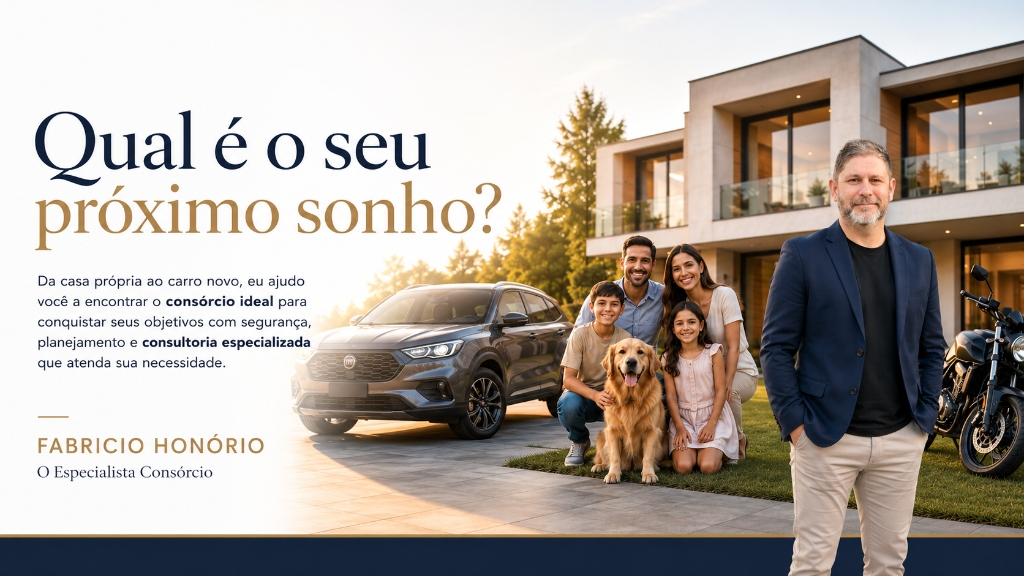
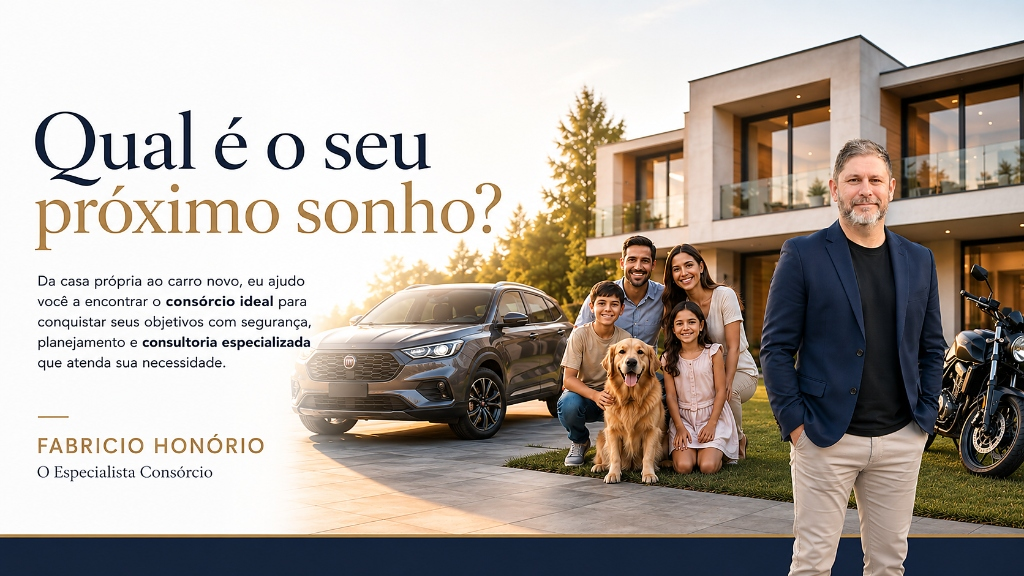
feat(simulator): atualiza imagem em alta resolucao e aplica fundo azul com particulas reluzentes e container ampliado

diff --git a/src/pages/Index.tsx b/src/pages/Index.tsx
@@ -13,7 +13,7 @@ import { StickySimulatorCTA } from "@/components/StickySimulatorCTA";
 import { supabase } from "@/integrations/supabase/client";
 import { useToast } from "@/hooks/use-toast";
 import { Sparkles, Clock, ShieldCheck } from "lucide-react";
-import AIChatbot from "@/components/AIChatbot";
+import { BlueParticlesBackground } from "@/components/BlueParticlesBackground";
 
 const Index = () => {
   const { toast } = useToast();
@@ -97,41 +97,44 @@ const Index = () => {
       {/* 2ª SEÇÃO - Tipos de Consórcio (Clean Light) */}
       <SegmentCards />
 
-      {/* 3ª SEÇÃO - SIMULADOR (Clean Light Container) */}
+      {/* 3ª SEÇÃO - SIMULADOR (Fundo Azul Tech com Partículas e Container Estendido) */}
       <div id="simulator" className="scroll-mt-20">
-        <section className="py-24 bg-gradient-to-b from-white via-slate-50 to-white relative overflow-hidden border-t border-slate-200/60">
+        <section className="py-24 bg-[#070D19] text-white relative overflow-hidden border-t border-b border-slate-800">
           
-          <div className="container max-w-5xl mx-auto px-4 sm:px-6 relative z-10">
+          {/* Partículas Animadas Reluzentes */}
+          <BlueParticlesBackground />
+
+          <div className="container max-w-[1380px] mx-auto px-4 sm:px-6 lg:px-8 relative z-10">
             
             {/* Header Acima do Simulador */}
             <div className="text-center max-w-3xl mx-auto mb-14 space-y-4">
-              <div className="inline-flex items-center gap-2 px-3.5 py-1.5 rounded-full bg-amber-50 border border-amber-200/80 text-[#B8860B] text-xs font-bold uppercase tracking-widest">
-                <Sparkles className="w-3.5 h-3.5 text-amber-600" />
+              <div className="inline-flex items-center gap-2 px-4 py-1.5 rounded-full bg-amber-400/10 border border-amber-400/30 text-amber-300 text-xs font-bold uppercase tracking-widest backdrop-blur-md">
+                <Sparkles className="w-3.5 h-3.5 text-amber-400" />
                 <span>Simulador Inteligente</span>
               </div>
 
-              <h2 className="text-3xl sm:text-4xl lg:text-5xl font-black tracking-tight text-[#0F172A] leading-tight">
-                Descubra a melhor estratégia para o <span className="text-transparent bg-clip-text bg-gradient-to-r from-[#B8860B] via-[#D4AF37] to-[#966F1E]">seu objetivo</span>
+              <h2 className="text-3xl sm:text-4xl lg:text-5xl font-black tracking-tight text-white leading-tight">
+                Descubra a melhor estratégia para o <span className="text-transparent bg-clip-text bg-gradient-to-r from-amber-200 via-amber-400 to-amber-500">seu objetivo</span>
               </h2>
 
-              <p className="text-slate-600 text-base sm:text-lg font-medium leading-relaxed max-w-2xl mx-auto">
+              <p className="text-slate-300 text-base sm:text-lg font-medium leading-relaxed max-w-2xl mx-auto">
                 Leva menos de 30 segundos para montar sua estratégia personalizada.
               </p>
 
-              <div className="pt-2 flex items-center justify-center gap-6 text-xs text-slate-500 font-bold">
+              <div className="pt-2 flex items-center justify-center gap-6 text-xs text-slate-300 font-bold">
                 <span className="flex items-center gap-1.5">
-                  <Clock className="w-4 h-4 text-amber-600" />
+                  <Clock className="w-4 h-4 text-amber-400" />
                   Rápido & Prático
                 </span>
                 <span className="flex items-center gap-1.5">
-                  <ShieldCheck className="w-4 h-4 text-emerald-600" />
+                  <ShieldCheck className="w-4 h-4 text-emerald-400" />
                   100% Seguro
                 </span>
               </div>
             </div>
 
-            {/* Componente do Simulador (Clean Container com retenção de captação de leads) */}
-            <div className="bg-white rounded-3xl p-4 sm:p-8 border border-slate-200/80 shadow-2xl shadow-slate-200/60">
+            {/* Componente do Simulador (Container Ampliado e Responsivo) */}
+            <div className="bg-white rounded-3xl p-4 sm:p-8 lg:p-10 border border-slate-200/80 shadow-2xl shadow-slate-950/80 relative z-10">
               <ConsortiumSimulator onSimulateSubmit={handleSimulateSubmit} />
             </div>
 
@@ -156,9 +159,6 @@ const Index = () => {
 
       {/* Footer */}
       <Footer />
-
-      {/* Assistente Virtual Jarvis (Chatbot) */}
-      <AIChatbot />
     </main>
   );
 };

diff --git a/src/components/BlueParticlesBackground.tsx b/src/components/BlueParticlesBackground.tsx
@@ -1,0 +1,111 @@
+import { useEffect, useRef } from "react";
+
+export const BlueParticlesBackground = () => {
+  const canvasRef = useRef<HTMLCanvasElement>(null);
+
+  useEffect(() => {
+    const canvas = canvasRef.current;
+    if (!canvas) return;
+    const ctx = canvas.getContext("2d");
+    if (!ctx) return;
+
+    let animationFrameId: number;
+    let width = (canvas.width = canvas.parentElement?.clientWidth || window.innerWidth);
+    let height = (canvas.height = canvas.parentElement?.clientHeight || window.innerHeight);
+
+    const handleResize = () => {
+      if (!canvas) return;
+      width = canvas.width = canvas.parentElement?.clientWidth || window.innerWidth;
+      height = canvas.height = canvas.parentElement?.clientHeight || window.innerHeight;
+    };
+
+    window.addEventListener("resize", handleResize);
+
+    // Particle pool
+    const particleCount = Math.min(Math.floor((width * height) / 12000), 80);
+    const particles = Array.from({ length: particleCount }, () => ({
+      x: Math.random() * width,
+      y: Math.random() * height,
+      vx: (Math.random() - 0.5) * 0.4,
+      vy: (Math.random() - 0.5) * 0.4 - 0.15,
+      radius: Math.random() * 2.2 + 0.8,
+      alpha: Math.random() * 0.7 + 0.2,
+      pulseSpeed: Math.random() * 0.02 + 0.005,
+      color: Math.random() > 0.35 ? "#38bdf8" : Math.random() > 0.5 ? "#fbbf24" : "#818cf8",
+    }));
+
+    const draw = () => {
+      ctx.clearRect(0, 0, width, height);
+
+      // Draw background glow gradients
+      const radialGlow1 = ctx.createRadialGradient(width * 0.2, height * 0.3, 0, width * 0.2, height * 0.3, width * 0.5);
+      radialGlow1.addColorStop(0, "rgba(56, 189, 248, 0.08)");
+      radialGlow1.addColorStop(1, "rgba(0, 0, 0, 0)");
+      ctx.fillStyle = radialGlow1;
+      ctx.fillRect(0, 0, width, height);
+
+      const radialGlow2 = ctx.createRadialGradient(width * 0.8, height * 0.7, 0, width * 0.8, height * 0.7, width * 0.5);
+      radialGlow2.addColorStop(0, "rgba(245, 158, 11, 0.06)");
+      radialGlow2.addColorStop(1, "rgba(0, 0, 0, 0)");
+      ctx.fillStyle = radialGlow2;
+      ctx.fillRect(0, 0, width, height);
+
+      // Connect particles
+      for (let i = 0; i < particles.length; i++) {
+        for (let j = i + 1; j < particles.length; j++) {
+          const dx = particles[i].x - particles[j].x;
+          const dy = particles[i].y - particles[j].y;
+          const dist = Math.sqrt(dx * dx + dy * dy);
+          if (dist < 110) {
+            ctx.beginPath();
+            ctx.moveTo(particles[i].x, particles[i].y);
+            ctx.lineTo(particles[j].x, particles[j].y);
+            ctx.strokeStyle = `rgba(56, 189, 248, ${0.12 * (1 - dist / 110)})`;
+            ctx.lineWidth = 0.6;
+            ctx.stroke();
+          }
+        }
+      }
+
+      // Update and draw particles
+      particles.forEach((p) => {
+        p.x += p.vx;
+        p.y += p.vy;
+
+        if (p.x < 0) p.x = width;
+        if (p.x > width) p.x = 0;
+        if (p.y < 0) p.y = height;
+        if (p.y > height) p.y = 0;
+
+        p.alpha += Math.sin(Date.now() * p.pulseSpeed) * 0.005;
+        const currentAlpha = Math.max(0.1, Math.min(0.8, p.alpha));
+
+        ctx.beginPath();
+        ctx.arc(p.x, p.y, p.radius, 0, Math.PI * 2);
+        ctx.fillStyle = p.color;
+        ctx.globalAlpha = currentAlpha;
+        ctx.shadowBlur = 8;
+        ctx.shadowColor = p.color;
+        ctx.fill();
+        ctx.globalAlpha = 1;
+        ctx.shadowBlur = 0;
+      });
+
+      animationFrameId = requestAnimationFrame(draw);
+    };
+
+    draw();
+
+    return () => {
+      window.removeEventListener("resize", handleResize);
+      cancelAnimationFrame(animationFrameId);
+    };
+  }, []);
+
+  return (
+    <canvas
+      ref={canvasRef}
+      className="absolute inset-0 w-full h-full pointer-events-none z-0"
+    />
+  );
+};
